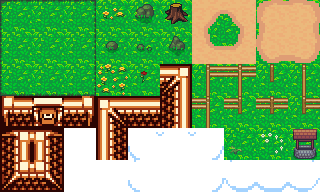
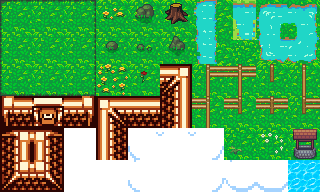
Fixed bug in LevelScreen2, changed map for LevelScrenn and added rotation for coins to show collectible item. And I today I have changed logic of spawning NPCs in LevelScreen3 with spawning jails on some NPCs

Changed region(s): [[0.5938, 0.0, 1.0, 0.3438], [0.875, 0.8125, 1.0, 1.0]]

diff --git a/core/src/main/java/com/badlogic/savethebill/screens/LevelScreen3.java b/core/src/main/java/com/badlogic/savethebill/screens/LevelScreen3.java
@@ -13,9 +13,14 @@ import com.badlogic.gdx.scenes.scene2d.actions.Actions;
 import com.badlogic.savethebill.BaseActor;
 import com.badlogic.savethebill.BaseGame;
 import com.badlogic.savethebill.characters.Hero;
+import com.badlogic.savethebill.characters.NPC;
+import com.badlogic.savethebill.characters.NPCDog;
+import com.badlogic.savethebill.characters.NPCHoe;
+import com.badlogic.savethebill.characters.NPCVillager;
 import com.badlogic.savethebill.characters.Orc;
 import com.badlogic.savethebill.characters.Zoro;
 import com.badlogic.savethebill.objects.Arrow;
+import com.badlogic.savethebill.objects.JailBars;
 import com.badlogic.savethebill.objects.Rock;
 import com.badlogic.savethebill.objects.Sign;
 import com.badlogic.savethebill.objects.Sword;
@@ -59,8 +64,28 @@ public class LevelScreen3 extends BaseScreen {
 
         for (MapObject obj : tma.getTileList("Zoro")) {
             MapProperties props = obj.getProperties();
-            new Zoro((float) props.get("x"), (float) props.get("y"), mainStage);
+            float x = (float) props.get("x");
+            float y = (float) props.get("y");
+
+            double random = Math.random();
+            NPC npc;
+            if (random < 0.25) {
+                npc = new Zoro(x, y, mainStage);
+            } else if (random < 0.5) {
+                npc = new NPCVillager(x, y, mainStage);
+            } else if (random < 0.75) {
+                npc = new NPCHoe(x, y, mainStage);
+            } else {
+                npc = new NPCDog(x, y, mainStage);
+            }
+
+            if (Math.random() < 0.3) {
+                JailBars jailBars = new JailBars(x, y, mainStage, npc);
+                jailBars.centerAtActor(npc);
+                jailBars.toFront();
+            }
         }
+
         for (MapObject obj : tma.getTileList("Orc")) {
             MapProperties props = obj.getProperties();
             new Orc((float) props.get("x"), (float) props.get("y"), mainStage);
@@ -145,17 +170,24 @@ public class LevelScreen3 extends BaseScreen {
             mainCharacter.preventOverlap(rockActor);
 
         if (sword.isVisible()) {
-            for (BaseActor zoroActor : BaseActor.getList(mainStage, "com.badlogic.savethebill.characters.Zoro")) {
-                Zoro zoro = (Zoro) zoroActor;
-                if (sword.overlaps(zoro) && !zoro.collected) {
-                    zoro.collected = true;
+            for (BaseActor jailBarsActor : BaseActor.getList(mainStage, "com.badlogic.savethebill.objects.JailBars")) {
+                JailBars jailBars = (JailBars) jailBarsActor;
+                if (sword.overlaps(jailBars)) {
+                    jailBars.hit();
+                }
+            }
+
+            for (BaseActor npcActor : BaseActor.getList(mainStage, "com.badlogic.savethebill.characters.NPC")) {
+                NPC npc = (NPC) npcActor;
+                if (npc.getID() == null && sword.overlaps(npc) && !npc.collected && !isTrapped(npc)) {
+                    npc.collected = true;
                     pickUp.play(DROP_VOLUME * audioVolume);
-                    zoro.clearActions();
-                    zoro.addAction(Actions.fadeOut(1));
-                    zoro.addAction(Actions.after(Actions.removeActor()));
+                    npc.clearActions();
+                    npc.addAction(Actions.fadeOut(1));
+                    npc.addAction(Actions.after(Actions.removeActor()));
 
                     Whirlpool whirl = new Whirlpool(0, 0, mainStage);
-                    whirl.centerAtActor(zoro);
+                    whirl.centerAtActor(npc);
                     whirl.setOpacity(0.25f);
                 }
             }
@@ -168,17 +200,17 @@ public class LevelScreen3 extends BaseScreen {
         }
 
         for (BaseActor arrow : BaseActor.getList(mainStage, "com.badlogic.savethebill.objects.Arrow")) {
-            for (BaseActor zoroActor : BaseActor.getList(mainStage, "com.badlogic.savethebill.characters.Zoro")) {
-                Zoro zoro = (Zoro) zoroActor;
-                if (arrow.overlaps(zoro) && !zoro.collected) {
-                    zoro.collected = true;
+            for (BaseActor npcActor : BaseActor.getList(mainStage, "com.badlogic.savethebill.characters.NPC")) {
+                NPC npc = (NPC) npcActor;
+                if (npc.getID() == null && arrow.overlaps(npc) && !npc.collected && !isTrapped(npc)) {
+                    npc.collected = true;
                     pickUp.play(DROP_VOLUME * audioVolume);
-                    zoro.clearActions();
-                    zoro.addAction(Actions.fadeOut(1));
-                    zoro.addAction(Actions.after(Actions.removeActor()));
+                    npc.clearActions();
+                    npc.addAction(Actions.fadeOut(1));
+                    npc.addAction(Actions.after(Actions.removeActor()));
 
                     Whirlpool whirl = new Whirlpool(0, 0, mainStage);
-                    whirl.centerAtActor(zoro);
+                    whirl.centerAtActor(npc);
                     whirl.setOpacity(0.25f);
                     arrow.remove();
                 }
@@ -197,22 +229,22 @@ public class LevelScreen3 extends BaseScreen {
             }
         }
 
-        for (BaseActor zoroActor : BaseActor.getList(mainStage, "com.badlogic.savethebill.characters.Zoro")) {
-            Zoro zoro = (Zoro) zoroActor;
-            if (mainCharacter.overlaps(zoro) && !zoro.collected) {
-                zoro.collected = true;
+        for (BaseActor npcActor : BaseActor.getList(mainStage, "com.badlogic.savethebill.characters.NPC")) {
+            NPC npc = (NPC) npcActor;
+            if (npc.getID() == null && mainCharacter.overlaps(npc) && !npc.collected && !isTrapped(npc)) {
+                npc.collected = true;
                 pickUp.play(DROP_VOLUME * audioVolume);
-                zoro.clearActions();
-                zoro.addAction(Actions.fadeOut(1));
-                zoro.addAction(Actions.after(Actions.removeActor()));
+                npc.clearActions();
+                npc.addAction(Actions.fadeOut(1));
+                npc.addAction(Actions.after(Actions.removeActor()));
 
                 Whirlpool whirl = new Whirlpool(0, 0, mainStage);
-                whirl.centerAtActor(zoro);
+                whirl.centerAtActor(npc);
                 whirl.setOpacity(0.25f);
             }
         }
 
-        controlHUD.updateNpcLabel(BaseActor.count(mainStage, "com.badlogic.savethebill.characters.Zoro"));
+        controlHUD.updateNpcLabel(BaseActor.count(mainStage, "com.badlogic.savethebill.characters.NPC"));
 
         for (BaseActor signActor : BaseActor.getList(mainStage, "com.badlogic.savethebill.objects.Sign")) {
             Sign sign = (Sign) signActor;
@@ -263,7 +295,7 @@ public class LevelScreen3 extends BaseScreen {
             }
         }
 
-        if (BaseActor.count(mainStage, "com.badlogic.savethebill.characters.Zoro") == 0 && !win) {
+        if (BaseActor.count(mainStage, "com.badlogic.savethebill.characters.NPC") == 0 && !win) {
             win = true;
             mainCharacter.setSpeed(0);
             BaseActor youWinMessage = new BaseActor(0, 0, mainStage);
@@ -271,6 +303,7 @@ public class LevelScreen3 extends BaseScreen {
             youWinMessage.centerAtPosition(mainStage.getCamera().position.x, mainStage.getCamera().position.y);
             youWinMessage.setOpacity(0);
             youWinMessage.addAction(Actions.fadeIn(1));
+            System.out.println("All NPCs collected! Preparing to transition to MenuScreen.");
         }
 
         if (win) {
@@ -279,8 +312,19 @@ public class LevelScreen3 extends BaseScreen {
                 instrumental.stop();
                 windSurf.stop();
                 BaseGame.setActiveScreen(new MenuScreen());
+                System.out.println("Transitioning to MenuScreen after 2 seconds.");
             }
         }
+    }
+
+    private boolean isTrapped(NPC npc) {
+        for (BaseActor jailBarsActor : BaseActor.getList(mainStage, "com.badlogic.savethebill.objects.JailBars")) {
+            JailBars jailBars = (JailBars) jailBarsActor;
+            if (jailBars.getTrappedNPC() == npc) {
+                return true;
+            }
+        }
+        return false;
     }
 
     public void swingSword() {
@@ -310,7 +354,15 @@ public class LevelScreen3 extends BaseScreen {
 
         sword.setVisible(true);
         sword.addAction(Actions.rotateBy(swordArc, 0.25f));
-        sword.addAction(Actions.after(Actions.visible(false)));
+        sword.addAction(Actions.after(Actions.sequence(
+            Actions.visible(false),
+            Actions.run(() -> {
+                for (BaseActor jailBarsActor : BaseActor.getList(mainStage, "com.badlogic.savethebill.objects.JailBars")) {
+                    JailBars jailBars = (JailBars) jailBarsActor;
+                    jailBars.resetHitThisSwing();
+                }
+            })
+        )));
 
         if (facingAngle == 90 || facingAngle == 180)
             mainCharacter.toFront();

diff --git a/core/src/main/java/com/badlogic/savethebill/screens/LevelScreen2.java b/core/src/main/java/com/badlogic/savethebill/screens/LevelScreen2.java
@@ -38,7 +38,7 @@ public class LevelScreen2 extends BaseScreen {
     private Music instrumental;
     private Music windSurf;
     private Sound damageSound;
-    private Sound spiderDeathSound; // Новий звук для смерті павука
+    private Sound spiderDeathSound;
     private ShapeRenderer shapeRenderer;
     private SpriteBatch batch;
     private float crowSoundTimer = 0;
@@ -231,7 +231,7 @@ public class LevelScreen2 extends BaseScreen {
             if (sword.isVisible() && spider.overlaps(sword)) {
                 new SmallerSmoke(spider.getX(), spider.getY(), mainStage);
                 if (!controlHUD.isMuted()) {
-                    spiderDeathSound.play(controlHUD.getEffectVolume()); // Відтворення звуку
+                    spiderDeathSound.play(controlHUD.getEffectVolume());
                 }
                 spider.remove();
             }
@@ -240,7 +240,7 @@ public class LevelScreen2 extends BaseScreen {
                 if (arrow.overlaps(spider)) {
                     new SmallerSmoke(spider.getX(), spider.getY(), mainStage);
                     if (!controlHUD.isMuted()) {
-                        spiderDeathSound.play(controlHUD.getEffectVolume()); // Відтворення звуку
+                        spiderDeathSound.play(controlHUD.getEffectVolume());
                     }
                     spider.remove();
                     arrow.remove();
@@ -272,9 +272,9 @@ public class LevelScreen2 extends BaseScreen {
             ", exitYPosition + CELL_SIZE=" + (exitYPosition + CELL_SIZE));
 
         if (!win && !gameOver) {
-            if (mainCharacter.getX() + mainCharacter.getWidth() >= mazeRightBoundary &&
-                mainCharacter.getY() >= exitYPosition &&
-                mainCharacter.getY() + mainCharacter.getHeight() <= exitYPosition + CELL_SIZE) {
+            if (mainCharacter.getX() + mainCharacter.getWidth() >= mazeRightBoundary - 10 &&
+                mainCharacter.getY() + mainCharacter.getHeight() >= exitYPosition &&
+                mainCharacter.getY() <= exitYPosition + CELL_SIZE) {
                 win = true;
                 System.out.println("Win condition met! Transitioning to LevelScreen3");
                 instrumental.stop();

diff --git a/core/src/main/java/com/badlogic/savethebill/objects/JailBars.java b/core/src/main/java/com/badlogic/savethebill/objects/JailBars.java
@@ -1,0 +1,50 @@
+package com.badlogic.savethebill.objects;
+
+import com.badlogic.gdx.scenes.scene2d.Stage;
+import com.badlogic.gdx.scenes.scene2d.actions.Actions;
+import com.badlogic.savethebill.BaseActor;
+import com.badlogic.savethebill.characters.NPC;
+
+public class JailBars extends BaseActor {
+    private int hits;
+    private NPC trappedNPC;
+    private boolean hitThisSwing;
+
+    public JailBars(float x, float y, Stage s, NPC npc) {
+        super(x, y, s);
+        loadTexture("jail-bars.png");
+        setBoundaryRectangle();
+        hits = 0;
+        hitThisSwing = false;
+        this.trappedNPC = npc;
+    }
+
+    public void hit() {
+        if (!hitThisSwing) {
+            hits++;
+            hitThisSwing = true;
+            if (hits >= 3) {
+                destroy();
+            }
+        }
+    }
+
+    public void resetHitThisSwing() {
+        hitThisSwing = false;
+    }
+
+    private void destroy() {
+        clearActions();
+        addAction(Actions.sequence(
+            Actions.parallel(
+                Actions.moveBy(0, -50, 0.5f),
+                Actions.fadeOut(0.5f)
+            ),
+            Actions.removeActor()
+        ));
+    }
+
+    public NPC getTrappedNPC() {
+        return trappedNPC;
+    }
+}

diff --git a/core/src/main/java/com/badlogic/savethebill/characters/NPC.java b/core/src/main/java/com/badlogic/savethebill/characters/NPC.java
@@ -7,11 +7,13 @@ public class NPC extends BaseActor {
     private String text;
     private boolean viewing;
     private String ID;
+    public boolean collected;
 
     public NPC(float x, float y, Stage s) {
         super(x, y, s);
         text = " ";
         viewing = false;
+        collected = false;
     }
 
     public void setText(String t) {
@@ -32,12 +34,14 @@ public class NPC extends BaseActor {
 
     public void setID(String id) {
         ID = id;
-        if (ID.equals("Gatekeeper"))
-            loadTexture("npc-1.png");
-        else if (ID.equals("Shopkeeper"))
-            loadTexture("npc-2.png");
-        else
-            loadTexture("npc-3.png");
+        if (ID != null) {
+            if (ID.equals("Gatekeeper"))
+                loadTexture("npc-1.png");
+            else if (ID.equals("Shopkeeper"))
+                loadTexture("npc-2.png");
+            else
+                loadTexture("npc-3.png");
+        }
     }
 
     public String getID() {

diff --git a/core/src/main/java/com/badlogic/savethebill/objects/Coin.java b/core/src/main/java/com/badlogic/savethebill/objects/Coin.java
@@ -1,13 +1,17 @@
 package com.badlogic.savethebill.objects;
 
+import com.badlogic.gdx.scenes.scene2d.Action;
 import com.badlogic.gdx.scenes.scene2d.Stage;
+import com.badlogic.gdx.scenes.scene2d.actions.Actions;
 import com.badlogic.savethebill.BaseActor;
 
-public class Coin extends BaseActor
-{
-    public Coin(float x, float y, Stage s)
-    {
-        super(x,y,s);
+public class Coin extends BaseActor {
+    public Coin(float x, float y, Stage s) {
+        super(x, y, s);
         loadTexture("coin.png");
+        Action spin = Actions.rotateBy(30, 1);
+        this.addAction(Actions.forever(spin));
+
+        setBoundaryPolygon(8);
     }
 }

diff --git a/core/src/main/java/com/badlogic/savethebill/characters/NPCVillager.java b/core/src/main/java/com/badlogic/savethebill/characters/NPCVillager.java
@@ -2,12 +2,10 @@ package com.badlogic.savethebill.characters;
 
 import com.badlogic.gdx.scenes.scene2d.Stage;
 
-public class Zoro extends NPC {
-    public boolean collected;
-
-    public Zoro(float x, float y, Stage s) {
+public class NPCVillager extends NPC {
+    public NPCVillager(float x, float y, Stage s) {
         super(x, y, s);
-        loadTexture("zoro-1.png");
+        loadTexture("npc-3.png");
         setBoundaryRectangle();
     }
 }

diff --git a/core/src/main/java/com/badlogic/savethebill/characters/NPCDog.java b/core/src/main/java/com/badlogic/savethebill/characters/NPCDog.java
@@ -2,12 +2,10 @@ package com.badlogic.savethebill.characters;
 
 import com.badlogic.gdx.scenes.scene2d.Stage;
 
-public class Zoro extends NPC {
-    public boolean collected;
-
-    public Zoro(float x, float y, Stage s) {
+public class NPCDog extends NPC {
+    public NPCDog(float x, float y, Stage s) {
         super(x, y, s);
-        loadTexture("zoro-1.png");
+        loadTexture("npc-dog.png");
         setBoundaryRectangle();
     }
 }

diff --git a/core/src/main/java/com/badlogic/savethebill/characters/NPCHoe.java b/core/src/main/java/com/badlogic/savethebill/characters/NPCHoe.java
@@ -2,12 +2,10 @@ package com.badlogic.savethebill.characters;
 
 import com.badlogic.gdx.scenes.scene2d.Stage;
 
-public class Zoro extends NPC {
-    public boolean collected;
-
-    public Zoro(float x, float y, Stage s) {
+public class NPCHoe extends NPC {
+    public NPCHoe(float x, float y, Stage s) {
         super(x, y, s);
-        loadTexture("zoro-1.png");
+        loadTexture("npc-4.png");
         setBoundaryRectangle();
     }
 }
